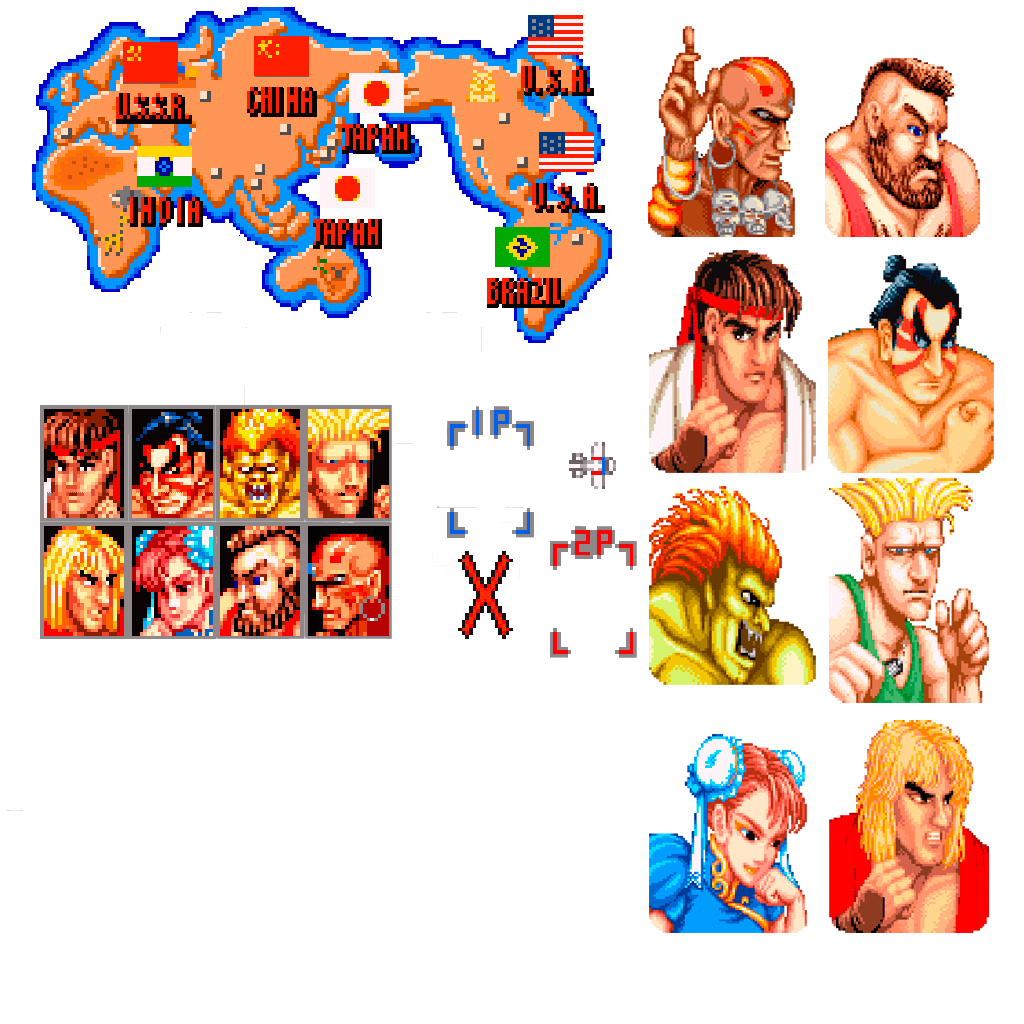
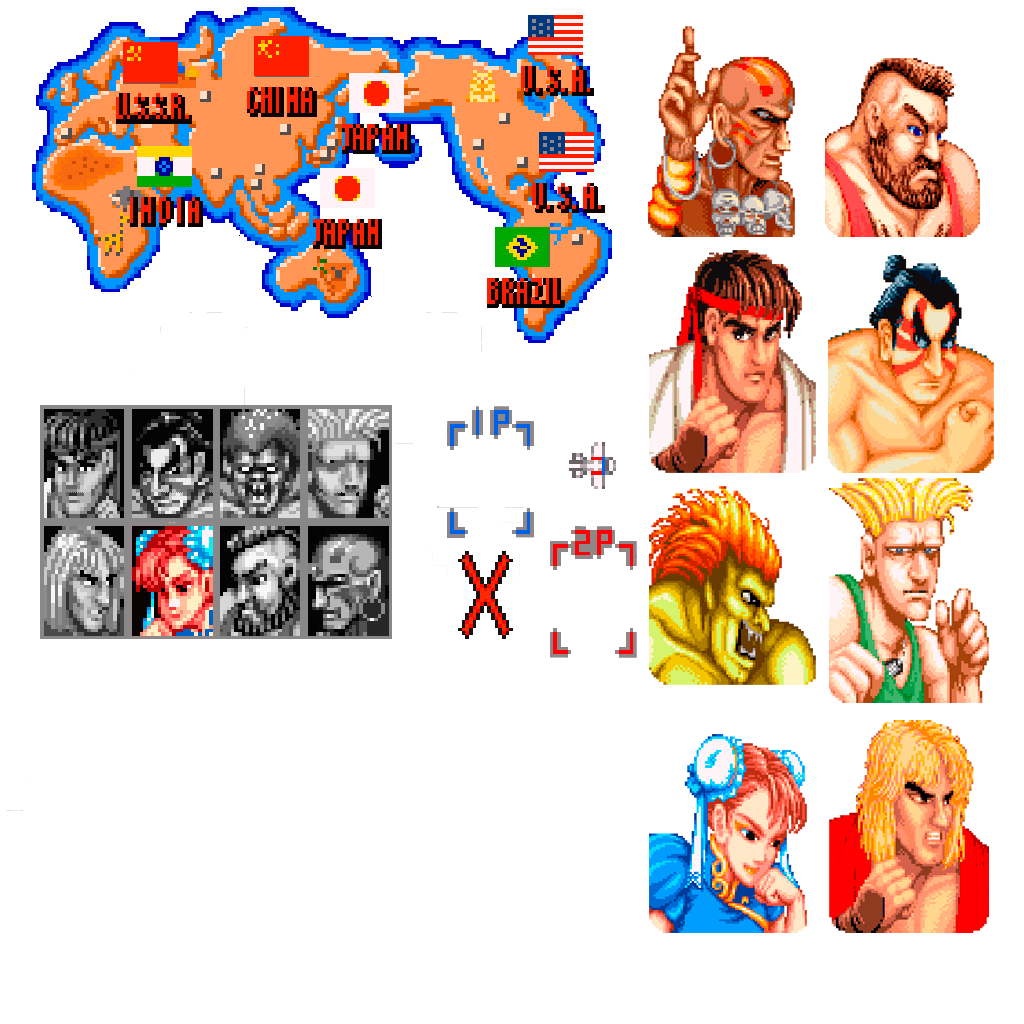
a

Changed region(s): [[0.0312, 0.375, 0.4062, 0.625]]

diff --git a/Street Fighter II/ModuleCharacterSelection.cpp b/Street Fighter II/ModuleCharacterSelection.cpp
@@ -1,5 +1,6 @@
 #include "Globals.h"
 #include "Application.h"
+#include "Animation.h"
 #include "ModuleTextures.h"
 #include "ModuleRender.h"
 #include "ModuleInput.h"
@@ -17,9 +18,19 @@ ModuleCharacterSelection::ModuleCharacterSelection()
 {
 	Map = { 32,7,581,337 };
 	Characters = { 40,405,352,234 }; // 37 x 37
-	P1Pointer = { 447,406,87,131 };
+
+	P1Pointer.PushBack({ 447,406,87,131 });
+	P1Pointer.PushBack({ 1000,1000,87,131 });
+	P1Pointer.speed = 0.2f;
+	P1Pointer.loop = true;
+
 	P1PpointerDest = { 116,134,40,45 };
-	P2Pointer = { 550,526,87,132 };
+
+	P2Pointer.PushBack({ 550,526,87,132 });
+	P2Pointer.PushBack({ 1000,1000,87,132 });
+	P2Pointer.speed = 0.2f;
+	P2Pointer.loop = true;
+
 	P2PointerDest = { 227,171,40,45 };
 	Plane = { 569,442,47,47 };
 
@@ -52,8 +63,8 @@ bool ModuleCharacterSelection::Start()
 	P2PointerDest = { 227,171,40,45 };
 	P1PpointerDest = { 116,134,40,45 };
 
-	bool P1selected = false;
-	bool P2selected = false;
+	P1selected = false;
+	P2selected = false;
 
 	App->render->camera.x = App->render->camera.y = 0;
 
@@ -66,8 +77,6 @@ bool ModuleCharacterSelection::CleanUp()
 
 	App->textures->Unload(graphics);
 	App->audio->UnloadMusic(music);
-	bool P1selected = false;
-	bool P2selected = false;
 
 	return true;
 }
@@ -83,7 +92,8 @@ update_status ModuleCharacterSelection::Update()
 	SDL_Rect Character1;
 	SDL_Rect Character1Dest = { 10,134,75,75 };
 
-	App->render->DrawQuad({ 0,0,SCREEN_WIDTH,SCREEN_HEIGHT }, 0, 0, 108, 255);
+	
+ App->render->DrawQuad({ 0,0,SCREEN_WIDTH,SCREEN_HEIGHT }, 0, 0, 108, 255);
 	App->render->RectBlit2(graphics, &Map, &MapDest);
 	App->render->RectBlit2(graphics, &Characters, &CharacterDest);
 
@@ -129,10 +139,11 @@ update_status ModuleCharacterSelection::Update()
 
 		//Character select
 		if (App->input->keyboard[SDL_SCANCODE_X] == KEY_DOWN || App->input->Pad1.button_state[SDL_CONTROLLER_BUTTON_A] == KEY_DOWN) {
-			P1selected = true;
-			App->audio->PlayChunk(map_effect, 1);
+			if (P1PpointerDest.x == 153 && P1PpointerDest.y == 171) {
+				P1selected = true;
+				App->audio->PlayChunk(map_effect, 1);
+			}
 		}
-		App->render->RectBlit2(graphics, &Character1, &Character1Dest);
 	}
 
 	//P2 character slector
@@ -176,29 +187,36 @@ update_status ModuleCharacterSelection::Update()
 
 		//Character select
 		if (App->input->keyboard[SDL_SCANCODE_J] == KEY_DOWN || App->input->Pad2.button_state[SDL_CONTROLLER_BUTTON_A] == KEY_DOWN) {
-			P2selected = true;
-			App->audio->PlayChunk(map_effect, 1);
+			if (P2PointerDest.x == 153 && P2PointerDest.y == 171) {
+				P2selected = true;
+				App->audio->PlayChunk(map_effect, 1);
+			}
 		}
-		App->render->RectBlit2Sym(graphics, &Character2, &Character2Dest);
 	}
+
+	App->render->RectBlit2Sym(graphics, &Character2, &Character2Dest);
+	App->render->RectBlit2(graphics, &Character1, &Character1Dest);
 	
+	if (P1selected == true) {
+		App->render->RectBlit2(graphics, &ChunLi, &Character1Dest);
+	}
+	if (P2selected == true) {
+		App->render->RectBlit2Sym(graphics, &ChunLi, &Character2Dest);
+	}
+
 	if (P1selected == true && P2selected == true) {
-		SDL_Rect PlaneDest = {170,30,20,20};
+
+		SDL_Rect PlaneDest = {130,60,20,20};
+		App->render->RectBlit2(graphics, &ChunLi, &Character1Dest);
+		App->render->RectBlit2Sym(graphics, &ChunLi, &Character2Dest);
 		App->render->RectBlit2(graphics, &Plane, &PlaneDest);
 		App->audio->PlayChunk(plane_effect, 1);
 		App->fade->FadeToBlack(App->selectionScene, App->scene_dhalsim, 2.0f);
-
-		App->render->RectBlit2Sym(graphics, &Character2, &Character2Dest);
-		App->render->RectBlit2(graphics, &Character1, &Character1Dest);
-
 		App->audio->StopMusic(250);
 	}
 
-
-	App->render->RectBlit2(graphics, &P1Pointer, &P1PpointerDest);
-	App->render->RectBlit2(graphics, &P2Pointer, &P2PointerDest);
-
-
+	App->render->RectBlit2(graphics, &P1Pointer.GetCurrentFrame(), &P1PpointerDest);
+	App->render->RectBlit2(graphics, &P2Pointer.GetCurrentFrame(), &P2PointerDest);
 	
 	if (App->input->keyboard[SDL_SCANCODE_RETURN] == KEY_DOWN || App->input->Pad1.button_state[SDL_CONTROLLER_BUTTON_START] == KEY_DOWN) {
 		App->fade->FadeToBlack(App->selectionScene, App->scene_dhalsim, 2.0f);

diff --git a/Street Fighter II/ModuleCharacterSelection.h b/Street Fighter II/ModuleCharacterSelection.h
@@ -2,6 +2,7 @@
 #define __MODULECHARACTERSELECTION_H__
 
 #include "Module.h"
+#include "Animation.h"
 #include "Globals.h"
 
 #include "SDL_mixer/include/SDL_mixer.h"
@@ -20,9 +21,9 @@ public:
 
 	SDL_Rect Map;
 	SDL_Rect Characters;
-	SDL_Rect P1Pointer;
+	Animation P1Pointer;
 	SDL_Rect P1PpointerDest;
-	SDL_Rect P2Pointer;
+	Animation P2Pointer;
 	SDL_Rect P2PointerDest;
 	SDL_Rect Plane;
 	SDL_Rect P1CharacterDest;
